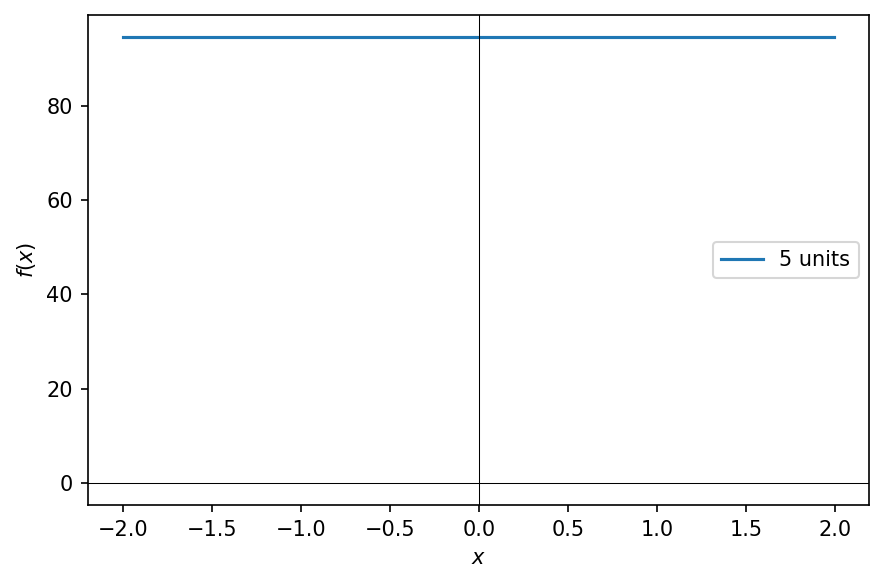
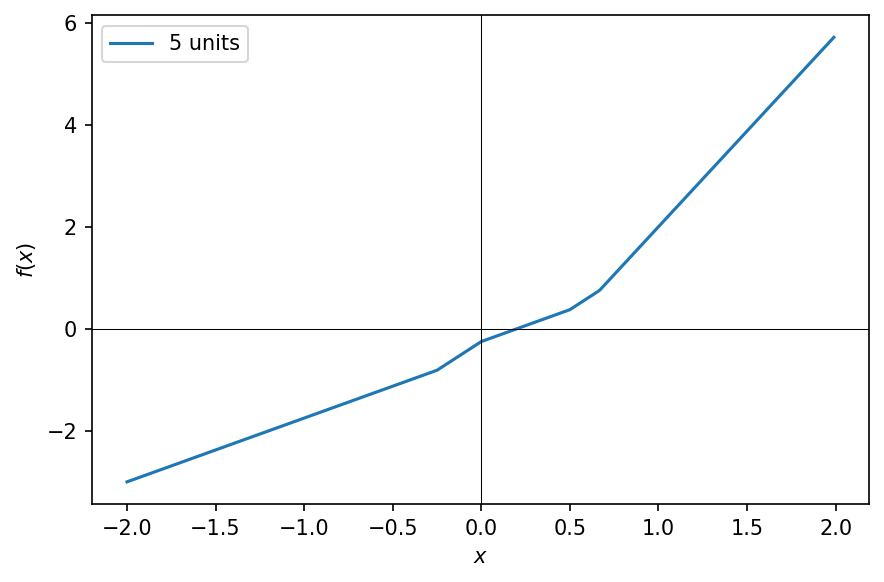
Shallow networks complete

diff --git a/Deep Learning/linear.py b/Deep Learning/linear.py
@@ -70,9 +70,9 @@ def shallow(x, theta_hidden, theta_out):
     Returns:
         Scalar output.
     """
-    output = theta_out[0]
+    output = theta_out[0].clone()   # .clone() makes an independent copy
     for j in range(len(theta_hidden)):
-        output += theta_out[j+1] * relu_unit(x, theta_hidden[j])
+        output = output + theta_out[j+1] * relu_unit(x, theta_hidden[j])  # not +=
     return output
 
 